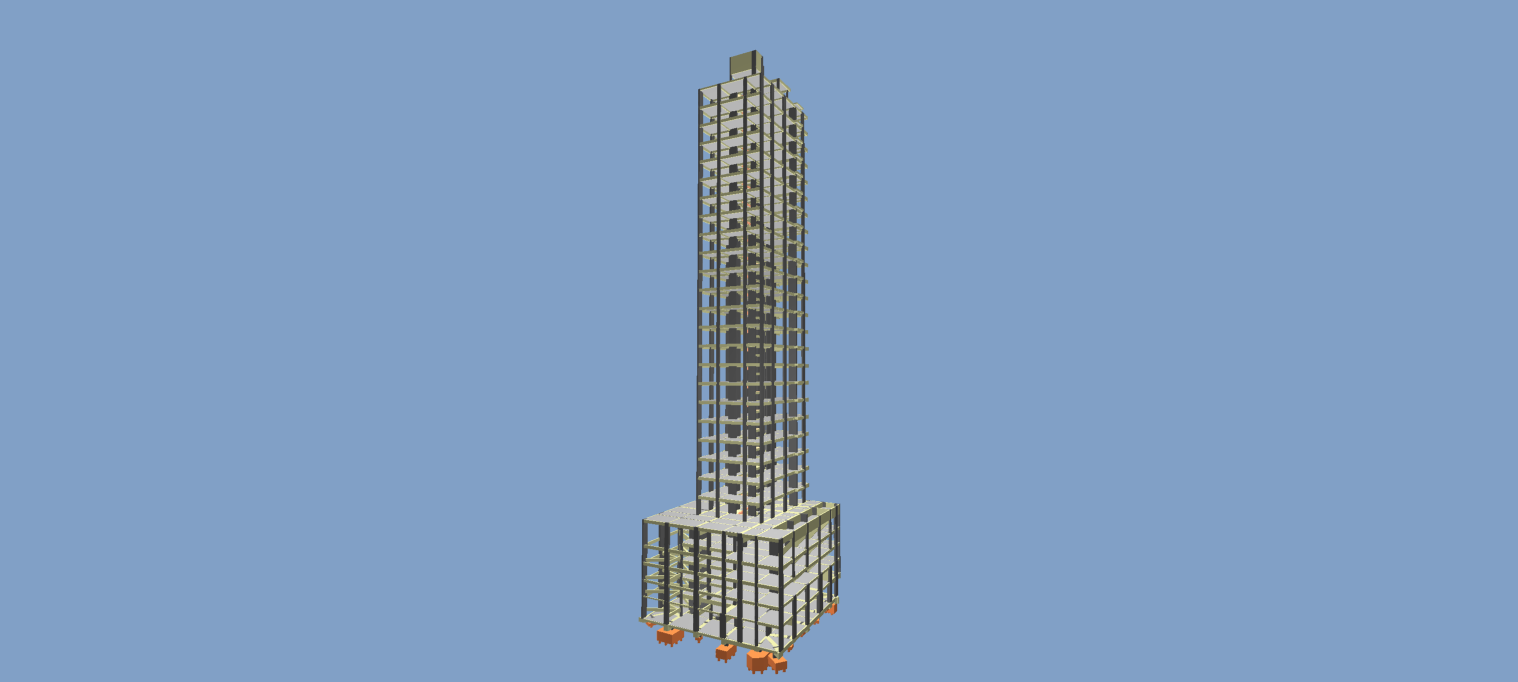
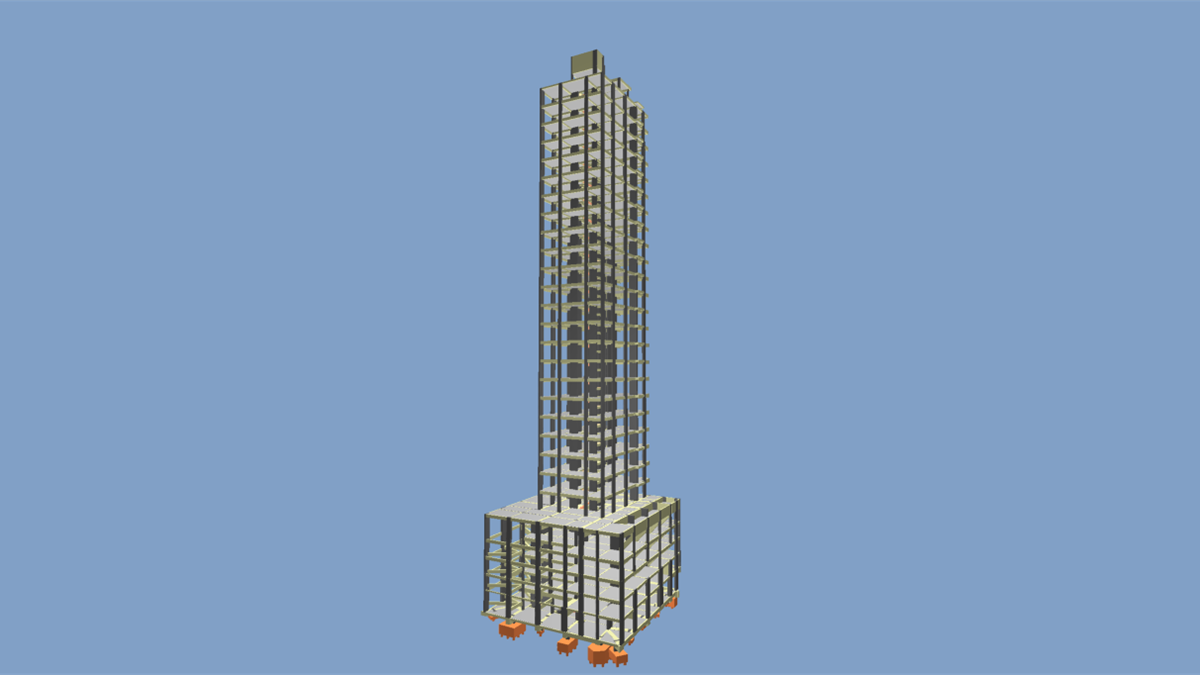
Recorta projetos estruturais e uniformiza enquadramento dos cards

Changed region(s): [[0.4008, 0.0622, 0.5858, 0.9956]]

diff --git a/index.html b/index.html
@@ -68,9 +68,9 @@ Nosso objetivo é entregar projetos que integram estética, funcionalidade e tot
         <article class="project-card"><div class="project-image"><img src="public/images/projeto-04.png" alt="Edifício DP"><span class="project-number">04</span></div><div class="project-meta"><span>Projeto arquitetônico</span></div></article>
         <article class="project-card"><div class="project-image"><img src="public/images/projeto-05.png" alt="Área de lazer"><span class="project-number">05</span></div><div class="project-meta"><span>Área de lazer</span></div></article>
         <article class="project-card"><div class="project-image"><img src="public/images/projeto-06.jpg" alt="Edifício comercial"><span class="project-number">06</span></div><div class="project-meta"><span>Design de interiores</span></div></article>
-        <article class="project-card"><div class="project-image project-image-structural"><img src="public/images/projeto-07.png" alt="Modelo estrutural de edifício com torre e embasamento" loading="lazy"><span class="project-number">07</span></div><div class="project-meta"><span>Projeto estrutural</span></div></article>
-        <article class="project-card"><div class="project-image project-image-structural"><img src="public/images/projeto-08.png" alt="Modelo estrutural de edificação com pilares, lajes e fundações profundas" loading="lazy"><span class="project-number">08</span></div><div class="project-meta"><span>Projeto estrutural</span></div></article>
-        <article class="project-card"><div class="project-image project-image-structural"><img src="public/images/projeto-09.png" alt="Modelo estrutural de edificação com pilares, lajes e sapatas" loading="lazy"><span class="project-number">09</span></div><div class="project-meta"><span>Projeto estrutural</span></div></article>
+        <article class="project-card"><div class="project-image"><img src="public/images/projeto-07.png" alt="Modelo estrutural de edifício com torre e embasamento" loading="lazy"><span class="project-number">07</span></div><div class="project-meta"><span>Projeto estrutural</span></div></article>
+        <article class="project-card"><div class="project-image"><img src="public/images/projeto-08.png" alt="Modelo estrutural de edificação com pilares, lajes e fundações profundas" loading="lazy"><span class="project-number">08</span></div><div class="project-meta"><span>Projeto estrutural</span></div></article>
+        <article class="project-card"><div class="project-image"><img src="public/images/projeto-09.png" alt="Modelo estrutural de edificação com pilares, lajes e sapatas" loading="lazy"><span class="project-number">09</span></div><div class="project-meta"><span>Projeto estrutural</span></div></article>
       </div>
     </section>
 

diff --git a/styles.css b/styles.css
@@ -75,7 +75,3 @@ footer img{filter:none}
 /* Emphasis in the office statement */
 .intro h2{font-weight:400}
 .gradient-word{color:var(--orange);font-weight:500}
-
-/* Keep structural models fully visible within the existing project cards. */
-.project-image-structural{background:#83a1c3}
-.project-image-structural img{object-fit:contain}
